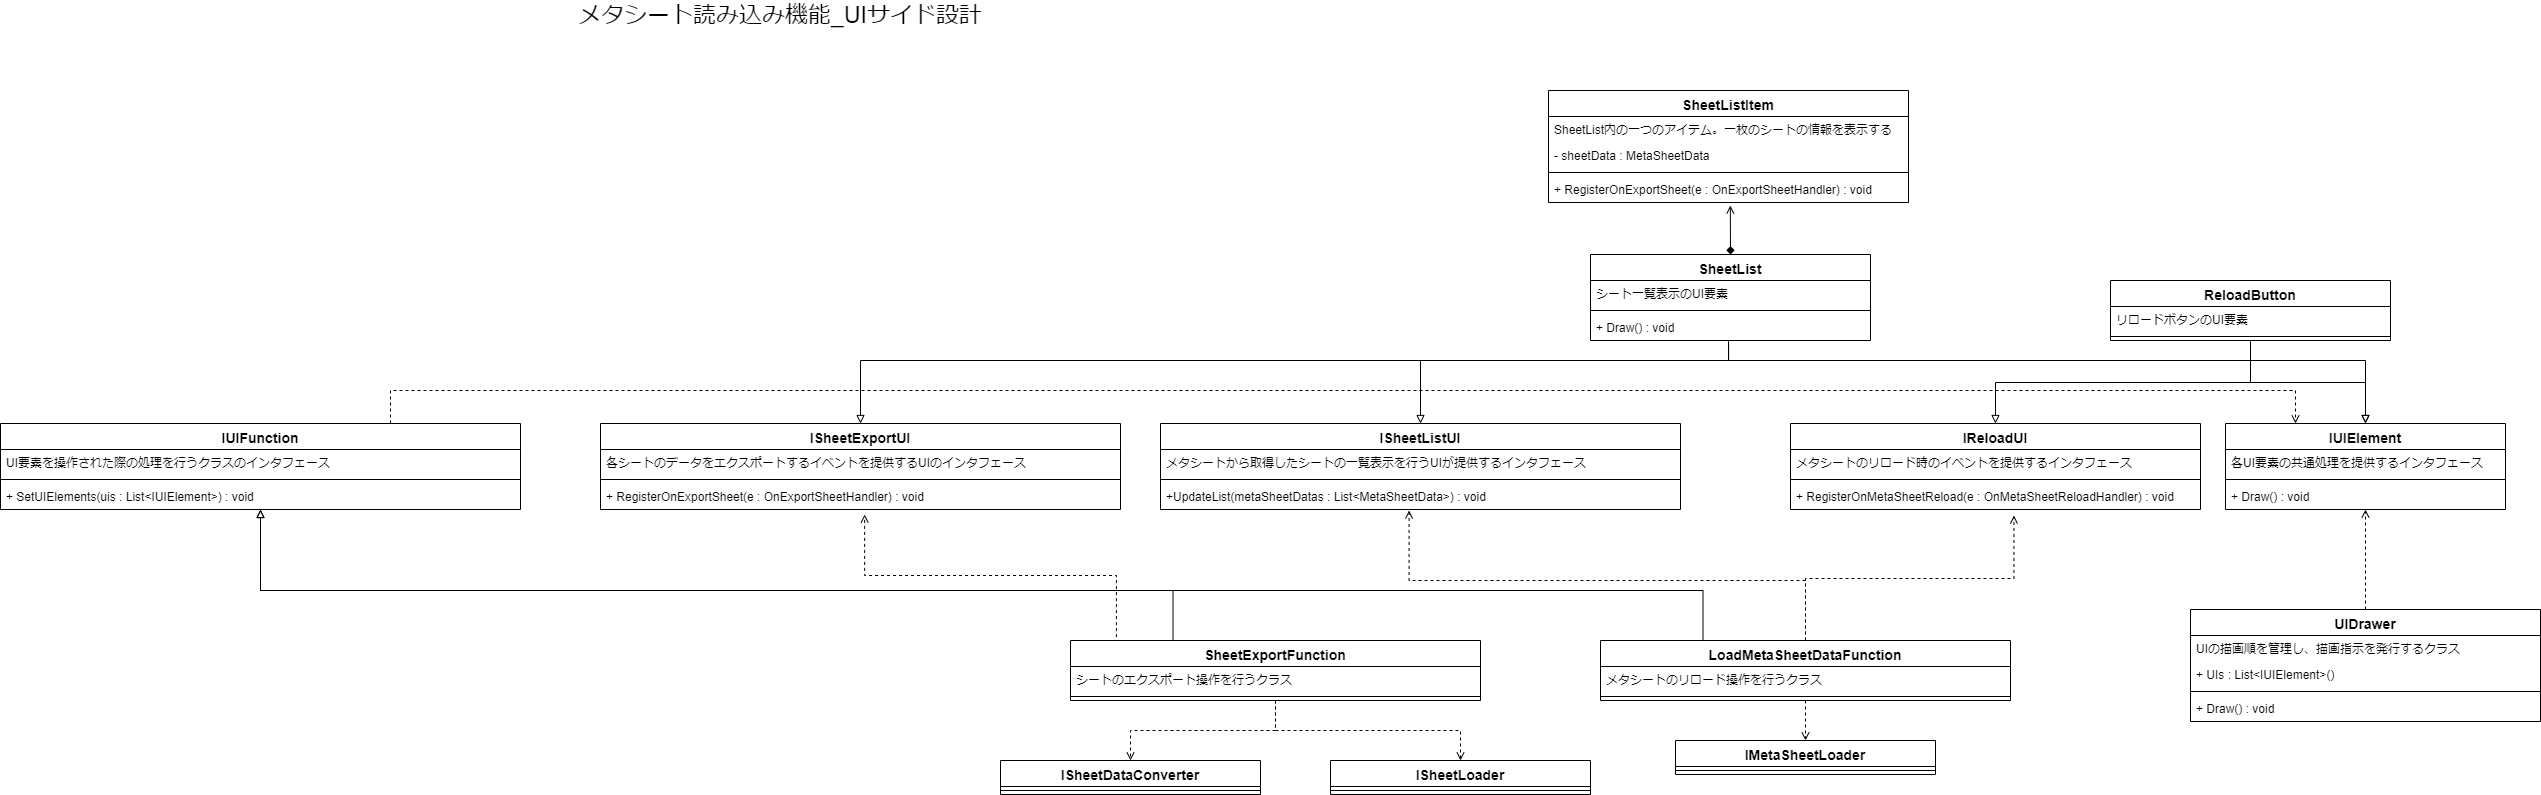
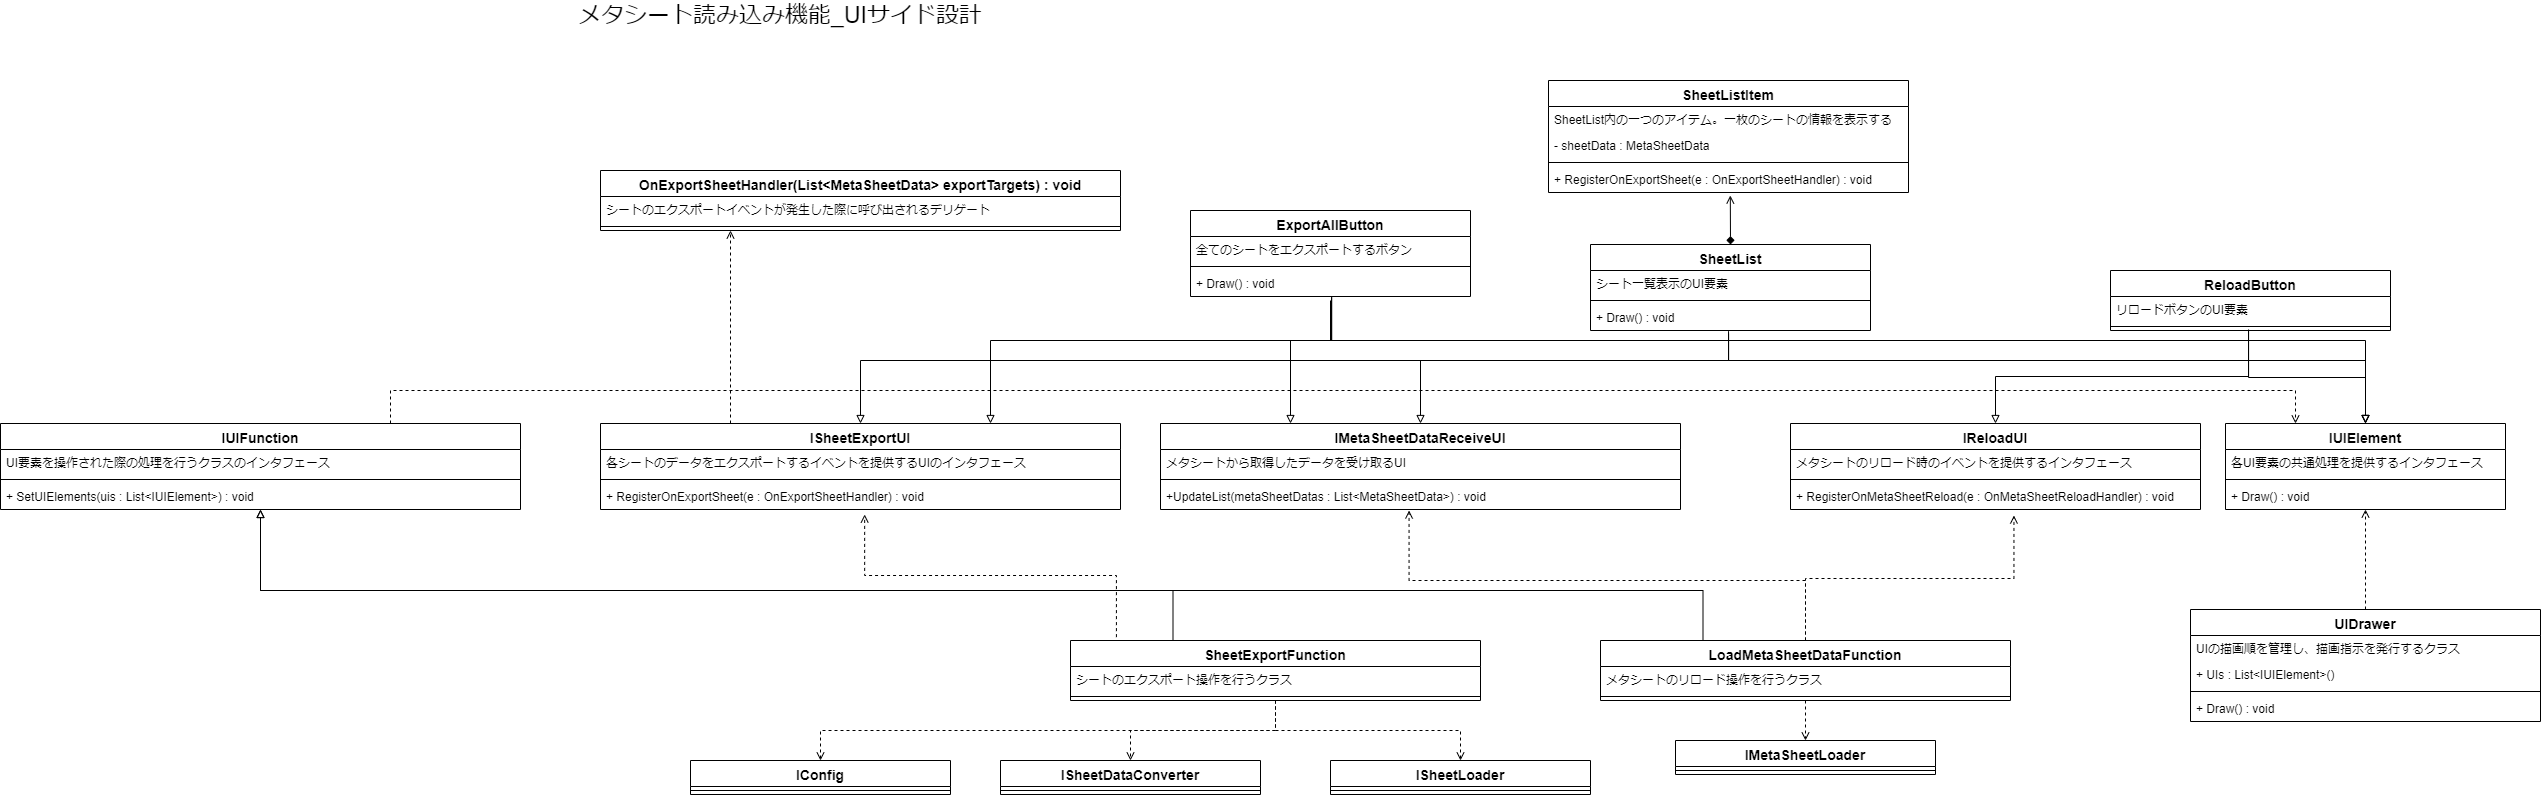
ISheetListUIをIMetaSheetDataReceiveUIに改名
全エクスポート用のボタンにも同じインタフェースを実装させたいので、より機能そのものを表した名前に変更した。

diff --git a/Editor/UIs/Functions/LoadMetaSheetDataFunction.cs b/Editor/UIs/Functions/LoadMetaSheetDataFunction.cs
@@ -15,7 +15,7 @@ namespace GoogleDriveDownloader
         /// <summary>
         /// メタシートのデータを渡す対象となるUIオブジェクトのリスト
         /// </summary>
-        List<ISheetListUI> sheetListUIs;
+        List<IMetaSheetDataReceiveUI> metaSheetDataReceivers;
 
         /// <summary>
         /// 自身がリロードイベントを購読しているUIオブジェクトのリスト
@@ -28,7 +28,7 @@ namespace GoogleDriveDownloader
         {
             metaSheetLoader = _metaSheetLoader;
 
-            sheetListUIs = new List<ISheetListUI>();
+            metaSheetDataReceivers = new List<IMetaSheetDataReceiveUI>();
             reloadUIs = new List<IReloadUI>();
         }
 
@@ -51,11 +51,11 @@ namespace GoogleDriveDownloader
 
                 // ISheetListUIを見つけた時、それが今まで無かったものであれば
                 // データを渡す先として追加する
-                if (ui is ISheetListUI sheetListUI)
+                if (ui is IMetaSheetDataReceiveUI receiver)
                 {
-                    if (!sheetListUIs.Contains(sheetListUI))
+                    if (!metaSheetDataReceivers.Contains(receiver))
                     {
-                        sheetListUIs.Add(sheetListUI);
+                        metaSheetDataReceivers.Add(receiver);
                     }
                 }
             }
@@ -67,7 +67,7 @@ namespace GoogleDriveDownloader
         private void OnReload()
         {
             var metaSheetDatas = metaSheetLoader.LoadMetaSheet();
-            foreach (var sheetListUI in sheetListUIs)
+            foreach (var sheetListUI in metaSheetDataReceivers)
             {
                 sheetListUI.UpdateList(metaSheetDatas);
             }

diff --git a/Tests/Mocks/MockSheetListUI.cs b/Tests/Mocks/MockSheetListUI.cs
@@ -6,7 +6,7 @@ using GoogleDriveDownloader;
 /// UpdateList関数に渡されたリストを保持しておき外部に公開する機能と、
 /// 任意のMetaSheetDataを引数として、シートのエクスポート操作をエミュレートすることが出来る
 /// </summary>
-public class MockSheetListUI : ISheetListUI, IUIElement
+public class MockSheetListUI : IMetaSheetDataReceiveUI, IUIElement
 {
     List<MetaSheetData> passedMetaSheetData;
     /// <summary>

diff --git a/Editor/UIs/Elements/SheetList.cs b/Editor/UIs/Elements/SheetList.cs
@@ -7,7 +7,7 @@ namespace GoogleDriveDownloader
     /// <summary>
     /// ドライブ上のシートを一覧表示するUI
     /// </summary>
-    public class SheetList : IUIElement, ISheetListUI, ISheetExportUI
+    public class SheetList : IUIElement, IMetaSheetDataReceiveUI, ISheetExportUI
     {
         /// <summary>
         /// 一覧表示を構成する各アイテム

diff --git a/Editor/UIs/Elements/IMetaSheetDataReceiveUI.cs b/Editor/UIs/Elements/IMetaSheetDataReceiveUI.cs
@@ -5,7 +5,7 @@ namespace GoogleDriveDownloader
     /// <summary>
     /// メタシートから取得したシートデータを一覧表示するUIが実装するインタフェース
     /// </summary>
-    public interface ISheetListUI
+    public interface IMetaSheetDataReceiveUI
     {
         /// <summary>
         /// 一覧表示する情報を更新する。
